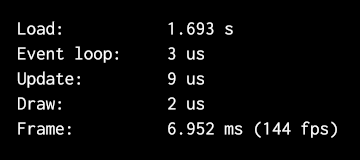
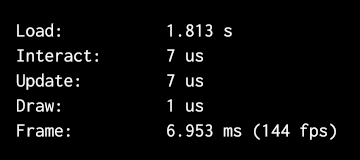
License project and fix/simplify minor details

diff --git a/src/debug/basic.rs b/src/debug/basic.rs
@@ -23,8 +23,8 @@ pub struct Debug {
     load_duration: time::Duration,
     frame_start: time::Instant,
     frame_durations: TimeBuffer,
-    event_loop_start: time::Instant,
-    event_loop_duration: time::Duration,
+    interact_start: time::Instant,
+    interact_duration: time::Duration,
     update_start: time::Instant,
     update_durations: TimeBuffer,
     draw_start: time::Instant,
@@ -46,8 +46,8 @@ impl Debug {
             load_duration: time::Duration::from_secs(0),
             frame_start: now,
             frame_durations: TimeBuffer::new(200),
-            event_loop_start: now,
-            event_loop_duration: time::Duration::from_secs(0),
+            interact_start: now,
+            interact_duration: time::Duration::from_secs(0),
             update_start: now,
             update_durations: TimeBuffer::new(200),
             draw_start: now,
@@ -88,17 +88,20 @@ impl Debug {
         self.frame_durations.average()
     }
 
-    pub(crate) fn event_loop_started(&mut self) {
-        self.event_loop_start = time::Instant::now();
+    pub(crate) fn interact_started(&mut self) {
+        self.interact_start = time::Instant::now();
     }
 
-    pub(crate) fn event_loop_finished(&mut self) {
-        self.event_loop_duration = time::Instant::now() - self.event_loop_start;
+    pub(crate) fn interact_finished(&mut self) {
+        self.interact_duration = time::Instant::now() - self.interact_start;
     }
 
-    /// Get the average time spent processing window events.
-    pub fn event_loop_duration(&self) -> time::Duration {
-        self.event_loop_duration
+    /// Get the average time spent processing events and running
+    /// [`Game::interact`].
+    ///
+    /// [`Game::interact`]: trait.Game.html#method.interact
+    pub fn interact_duration(&self) -> time::Duration {
+        self.interact_duration
     }
 
     pub(crate) fn update_started(&mut self) {
@@ -176,7 +179,7 @@ impl Debug {
         let fps = (1_000_000.0 / frame_micros as f32).round() as u32;
         let rows = [
             ("Load:", self.load_duration, None),
-            ("Interact:", self.event_loop_duration, None),
+            ("Interact:", self.interact_duration, None),
             ("Update:", self.update_durations.average(), None),
             ("Draw:", self.draw_durations.average(), None),
             ("Frame:", frame_duration, Some(fps.to_string() + " fps")),

diff --git a/src/lib.rs b/src/lib.rs
@@ -25,13 +25,12 @@
 //! use coffee::{Game, Result, Timer};
 //! use coffee::graphics::{Color, Window, WindowSettings};
 //!
-//! fn main() {
+//! fn main() -> Result<()> {
 //!     MyGame::run(WindowSettings {
 //!         title: String::from("A caffeinated game"),
 //!         size: (1280, 1024),
 //!         resizable: true,
 //!     })
-//!     .expect("Run game");
 //! }
 //!
 //! struct MyGame {
@@ -39,8 +38,8 @@
 //! }
 //!
 //! impl Game for MyGame {
-//!     type View = (); // No view data. Change this!
-//!     type Input = (); // No input data. Change this!
+//!     type View = (); // No view data.
+//!     type Input = (); // No input data.
 //!
 //!     const TICKS_PER_SECOND: u16 = 60; // Update rate
 //!
@@ -152,7 +151,7 @@ pub trait Game {
     /// [`View`]: #associatedtype.View
     fn update(&mut self, view: &Self::View, window: &Window);
 
-    /// Here is where you draw your game!
+    /// Draw your game here.
     ///
     /// Check out the [`graphics`] module to learn more about rendering in
     /// Coffee.
@@ -179,7 +178,7 @@ pub trait Game {
     /// [`interact`]: #method.interact
     fn on_input(&self, _input: &mut Self::Input, _event: input::Event) {}
 
-    /// Consume your [`Input`] to let users interact with your game here.
+    /// Consume your [`Input`] to let users interact with your game.
     ///
     /// Right before an [`update`], input events will be processed and this
     /// function will be called. This reduces latency when multiple updates need

diff --git a/examples/particles.rs b/examples/particles.rs
@@ -1,3 +1,5 @@
+//! A particle gravity simulator that showcases loading screens, input handling,
+//! and graphics interpolation with batched drawing and font rendering.
 use rand::Rng;
 use rayon::prelude::*;
 use std::{thread, time};
@@ -10,13 +12,12 @@ use coffee::input;
 use coffee::load::{loading_screen, Join, LoadingScreen, Task};
 use coffee::{Game, Result, Timer};
 
-fn main() {
+fn main() -> Result<()> {
     Particles::run(WindowSettings {
         title: String::from("Particles - Coffee"),
         size: (1280, 1024),
         resizable: false,
     })
-    .expect("Run example");
 }
 
 struct Particles {
@@ -54,7 +55,7 @@ impl Game for Particles {
     type Input = Input;
 
     // Low update rate.
-    // This way, graphics interpolation is really noticeable when toggled!
+    // This makes graphics interpolation really noticeable when toggled.
     const TICKS_PER_SECOND: u16 = 20;
 
     fn new(window: &mut Window) -> Result<(Particles, View, Input)> {

diff --git a/README.md b/README.md
@@ -9,14 +9,14 @@
 An opinionated 2D game engine for Rust focused on simplicity, explicitness, and
 safety.
 
-__Coffee is in very early stages of development.__ Active development is planned
-during 2019 (and hopefully beyond that!). [Many basic features are still missing],
-[some of its dependencies are experimental], and there are probably _many_ bugs.
-[Feel free to contribute!]
+__Coffee is in a very early stage of development.__ Active development is
+planned during 2019 (and hopefully beyond that!). Many [basic features are still
+missing], some [dependencies are experimental], and there are probably _many_
+bugs. [Feel free to contribute!]
 
-[Many basic features are still missing]: https://github.com/hecrj/coffee/issues
-[some of its dependencies are experimental]: #implementation-details
-[Feel free to contribute!]: https://github.com/hecrj/coffee/issues
+[basic features are still missing]: https://github.com/hecrj/coffee/issues
+[dependencies are experimental]: #implementation-details
+[Feel free to contribute!]: #contributing--feedback
 
 ## Features
   * Declarative, type-safe asset loading
@@ -32,21 +32,27 @@ during 2019 (and hopefully beyond that!). [Many basic features are still missing
 
 [debug view with performance metrics]: https://github.com/hecrj/coffee/blob/master/images/debug.png
 
-## Overview
+## Usage
+Add `coffee` as a dependency in your `Cargo.toml` and enable a graphics backend
+feature (`opengl`, `vulkan`, `metal`, `dx11`, or `dx12`):
 
+```
+coffee = { version = "0.1", features = ["opengl"] }
+```
+
+## Overview
 Here is a minimal example that will open a window:
 
 ```rust
 use coffee::{Game, Result, Timer};
 use coffee::graphics::{Color, Window, WindowSettings};
 
-fn main() {
+fn main() -> Result<()> {
     MyGame::run(WindowSettings {
         title: String::from("A caffeinated game"),
         size: (1280, 1024),
         resizable: true,
     })
-    .expect("Run game");
 }
 
 struct MyGame {
@@ -54,8 +60,8 @@ struct MyGame {
 }
 
 impl Game for MyGame {
-    type View = (); // No view data. Change this!
-    type Input = (); // No input data. Change this!
+    type View = (); // No view data.
+    type Input = (); // No input data.
 
     const TICKS_PER_SECOND: u16 = 60; // Update rate
 
@@ -87,9 +93,8 @@ Check out the [documentation] and the [examples] to learn more!
 Coffee builds upon
 
   * [`winit`] for windowing and mouse/keyboard events.
-  * [`gfx` pre-ll] for OpenGL support, based heavily on the [`ggez`]
-    codebase.
-  * [`wgpu`] for Vulkan, Metal, D3D11 and D3D12 support.
+  * [`gfx` pre-ll] for OpenGL support, based heavily on the [`ggez`] codebase.
+  * [`wgpu`] for _experimental_ Vulkan, Metal, D3D11 and D3D12 support.
   * [`nalgebra`] for the `Point`, `Vector`, and `Transformation` types.
   * [`image`] for image loading and texture array building.
 
@@ -106,8 +111,8 @@ anyone.
 
 If you want to contribute, you are more than welcome to be a part of the
 project! Check out the current [issues] if you want to find something to work
-on. I would like to hear about you first, though! Feel free to open a new issue
-if you want to discuss new ideas.
+on. Try to share you thoughts first! Feel free to open a new issue if you want
+to discuss new ideas.
 
 Any kind of feedback is welcome! You can open an issue or, if you want to talk,
 you can find me (and a bunch of awesome folks) over the `#game-dev` channel in
@@ -117,8 +122,8 @@ the [Rust Community Discord]. I go by `@lone_scientist` there.
 [Rust Community Discord]: https://bit.ly/rust-community
 
 ## Credits / Thank you
-  * [`ggez`], an awesome easy-to-use game engine that introduced me to Rust
-    a month ago. Its graphics implementation served as a guide to implement
-    OpenGL support for Coffee.
+  * [`ggez`], an awesome easy-to-use game engine that introduced me to Rust. Its
+    graphics implementation served as a guide to implement OpenGL support for
+    Coffee.
 
 [`ggez`]: https://github.com/ggez/ggez
